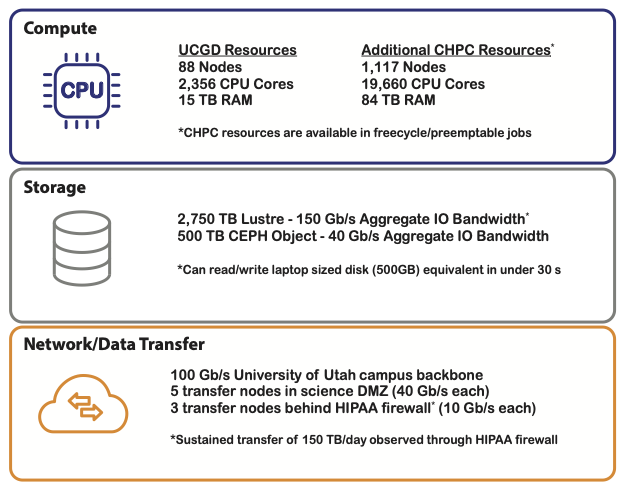
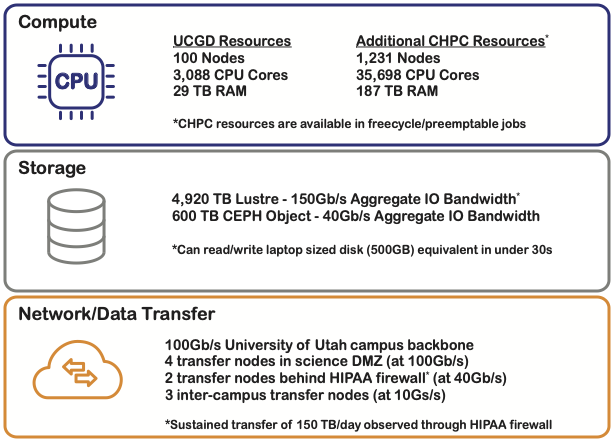
deploy: 521538bf7445f781df7da3f09ee96b175d1cb024

diff --git a/blog/22-09-23_UCGD_CHPC_Resources/index.html b/blog/22-09-23_UCGD_CHPC_Resources/index.html
@@ -48,21 +48,21 @@
     backed by a significant compute infrastructure owned and managed
     by the Utah Center for Genetic Discovery (UCGD) and housed at the
     University of Utah's Center for High Performance Computing.  The
-    UCGD owns 88 nodes which provide 2,356 cores of compute power and
-    a collective 15 TB of RAM.  Most of these nodes are in a Slurm
+    UCGD owns 100 nodes which provide 3,088 cores of compute power and
+    a collective 29 TB of RAM.  Most of these nodes are in a Slurm
     based HPC cluster, but several inteactive nodes provide for
     real-time analysis and development work.  In addition to UCDG
-    owned nodes, we also have guest access to an additional 1,117 nodes
-    which provide 19,660 cores of compute power and collectively have
-    over 84 TB of RAM.
+    owned nodes, we also have guest access to an additional 1,231 nodes
+    which provide 35,698 cores of compute power and collectively have
+    over 187 TB of RAM.
 
   </p>
   <p class='cddrc-blog-content__text'>
 
-    The UCGD also owns 2,750 TB of Lustre high performance,
+    The UCGD also owns 4,920 TB of Lustre high performance,
     distributed file system that boast 150 Gb/s aggregate bandwidth.
     The provides the ability to read a laptop's worth of data (500GB)
-    in under 30 seconds.  In addition, the UCGD owns 500 TB of CEPH
+    in under 30 seconds.  In addition, the UCGD owns 600 TB of CEPH
     object storage with 40 GB/s aggregate bandwidth.
 
   </p>
@@ -70,11 +70,12 @@
 
     All of these nodes and storage are connected at 100 Gb/s across
     the University of Utah network backbone and to the outside world
-    via 5 transfer nodes in the Science DMZ connecting at 40 Gb/s each
-    and 3 transfer nodes connecting through our HIPPA class firewall
-    into the CHPC 'Protected Environment' at 10 Gb/s each.  These
-    network connections allow a sustained transfer of 150 TB per day
-    across the HIPPA class firewall.
+    via 4 transfer nodes in the science DMZ connecting at 100 Gb/s
+    each and 2 transfer nodes connecting through our HIPPA class
+    firewall into the CHPC 'Protected Environment' at 40 Gb/s each,
+    and 3 inter-campus transfer nodes operating at 10 Gb/s each.
+    These network connections allow a sustained transfer of 150 TB per
+    day across the HIPPA class firewall.
 
   </p>
   <p class='cddrc-blog-content__text'>
